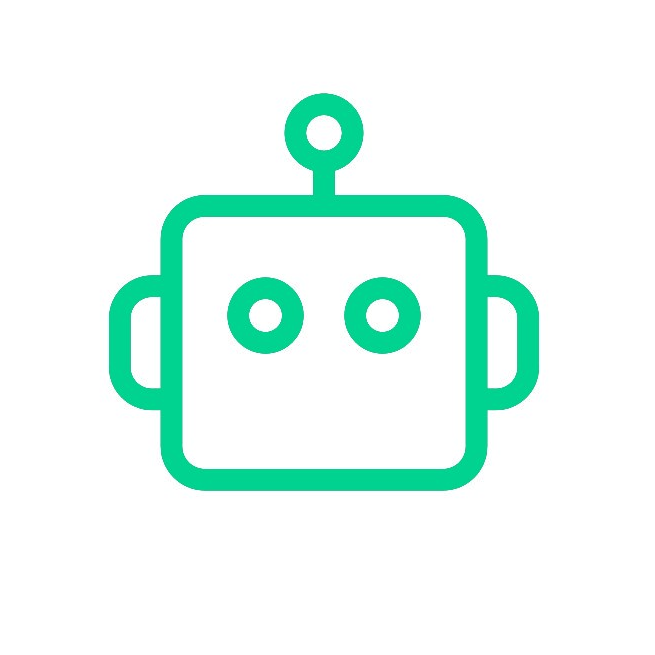
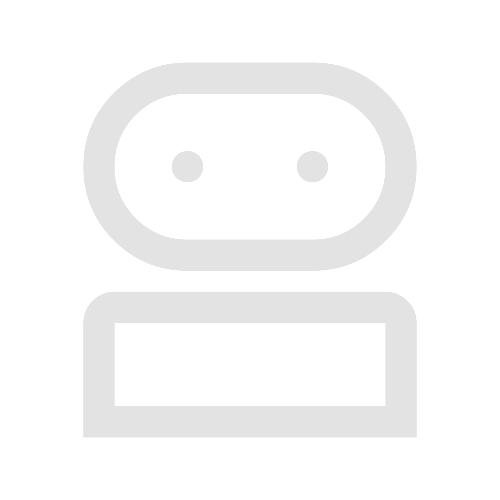
Major UI Overhaul

Changed region(s): [[0.15, 0.12, 0.84, 0.9]]

diff --git a/resources/js/chatbot.js b/resources/js/chatbot.js
@@ -80,7 +80,7 @@ const renderMessageEle = (txt, type) => {
         // JS literal
         messageEle.innerHTML =`
         <div class="chat-image avatar">
-            <div class="w-10 rounded-full ring-2 ring-base-300">
+            <div class="w-10 rounded-full">
                 <img alt="Chatbot Avatar" src="/images/chatbot.png" />
             </div>
         </div>
@@ -92,7 +92,7 @@ const renderMessageEle = (txt, type) => {
         // Html code copy pasted from the mock version
         // JS literal
         messageEle.innerHTML =`
-            <div class="chat-bubble chat-bubble-success font-semibold text-primary-content">${txt}</div>
+            <div class="chat-bubble chat-bubble-primary font-semibold text-primary-content">${txt}</div>
         `;}
 
         chatBody.append(messageEle);
@@ -132,7 +132,7 @@ const getChatbotResponse = (userInput) => {
     if (text.includes("bye") || text.includes("good bye") || text.includes("goodbye") || text.includes("stop") ) {
         return "See you later :)";
     }
-    if (text.includes("contact") || text.includes("form") || text.includes("human")|| text.includes("agent")|| text.includes("support")) {
+    if (text.includes("contact") || text.includes("form") || text.includes("human")|| text.includes("agent")|| text.includes("support")|| text.includes("customer")) {
         return "Please head over to our Help page, and use the contact form to reach our customer service team.";
     }
     if (text.includes("help") ) {

diff --git a/resources/css/app.css b/resources/css/app.css
@@ -11,18 +11,18 @@
 
     /* Daisyui Theme*/
     --daisyui-theme-mytheme: "mytheme";
-    --color-base-100: oklch(20.84% 0.008 17.911);
-    --color-base-200: oklch(18.522% 0.007 17.911);
-    --color-base-300: oklch(16.203% 0.007 17.911);
-    --color-base-content: oklch(83.768% 0.001 17.911);
+    --color-base-100: #161618;
+    --color-base-200: #27282E;
+    --color-base-300: #494A4F;
+    --color-base-content: oklch(90.7% 0.001 17.911);
     --color-primary: oklch(68.628% 0.185 148.958);
     --color-primary-content: oklch(0% 0 0);
     --color-secondary: oklch(69.776% 0.135 168.327);
     --color-secondary-content: oklch(13.955% 0.027 168.327);
     --color-accent: oklch(70.628% 0.119 185.713);
     --color-accent-content: oklch(14.125% 0.023 185.713);
-    --color-neutral: oklch(30.698% 0.039 171.364);
-    --color-neutral-content: oklch(86.139% 0.007 171.364);
+    --color-neutral: oklch(42% 0.288 171.364);
+    --color-neutral-content: oklch(96% 0.007 171.364);
     --color-info: oklch(72.06% 0.191 231.6);
     --color-info-content: oklch(0% 0 0);
     --color-success: oklch(64.8% 0.15 160);
@@ -33,12 +33,12 @@
     --color-error-content: oklch(0% 0 0);
     --radius-selector: 1rem;
     --radius-field: 2rem;
-    --radius-box: 1rem;
+    --radius-box: 2rem;
     --size-selector: 0.25rem;
     --size-field: 0.25rem;
     --border: 1px;
     --depth: 0;
-    --noise: 0;   
+    --noise: 0;  
         }
 
 

diff --git a/resources/views/customerSupport.blade.php b/resources/views/customerSupport.blade.php
@@ -14,7 +14,7 @@
 
     
     <!--Hero Section-->
-    <div class="hero bg-base-200 h-100 border border-base-300 shadow-sm mb-2">
+    <div class="hero bg-base-300 h-100 border border-base-300 shadow-sm mb-2  rounded-2xl">
     <div class="hero-content text-center">
         <div class="max-w-md">
         <h1 class="text-5xl font-bold">Hi there!</h1>
@@ -29,63 +29,74 @@
     </div>
 
     <!--Heading-->
-    <div class="bg-neutral text-neutral-content py-4 text-center text-4xl font-bold mb-2"> 
+    <div class=" text-neutral-content py-4 text-4xl font-bold mb-2"> 
         <h1>FAQS SECTION</h1>
     </div>
 
     <!--FAQs Section-->
-    <div class="border border-base-300 shadow-sm mb-2"> 
+    <div class="flex flex-col gap-2 mb-2">
         <!--FAQs Question 1-->
-        <div class="collapse bg-base-100 border border-base-300">
-            <input type="radio" name="my-accordion-1" checked="checked" />
+        <div class="collapse collapse-arrow bg-base-300 border border-base-200">
+            <input type="radio" name="my-accordion-2" checked="checked" />
             <div class="collapse-title font-semibold">How do I create an account?</div>
             <div class="collapse-content text-sm">Click on the account icon at the right-hand side of the navbar and then follow the registration process.</div>
         </div>
         <!--FAQs Question 2-->
-        <div class="collapse bg-base-100 border border-base-300">
-            <input type="radio" name="my-accordion-1" checked="checked" />
-            <div class="collapse-title font-semibold">Do you ship internationally?</div>
-            <div class="collapse-content text-sm">Unfortunately we don't ship outside the UK at the moment. However you may use third party proxy shipment to buy our products.</div>
+        <div class="collapse collapse-arrow bg-base-300  border border-base-200">
+            <input type="radio" name="my-accordion-2" />
+            <div class="collapse-title font-semibold">I forgot my password. What should I do?</div>
+            <div class="collapse-content text-sm">Click on "Forgot Password" on the login page and follow the instructions.</div>
         </div>
         <!--FAQs Question 3-->
-        <div class="collapse bg-base-100 border border-base-300">
-            <input type="radio" name="my-accordion-1" checked="checked" />
-            <div class="collapse-title font-semibold">What are your customer service opening hours?</div>
-            <div class="collapse-content text-sm">Our customer service team is available from Monday to Saturday from 9 am to 4 pm. However, you can always contact us through the email form and we will get back to you in less than three working days.</div>
+        <div class="collapse collapse-arrow bg-base-300  border border-base-200">
+            <input type="radio" name="my-accordion-2" />
+            <div class="collapse-title font-semibold">How do I update my profile information?</div>
+            <div class="collapse-content text-sm">Go to "My Account" settings and select "Edit Profile" to make changes.</div>
         </div>
         <!--FAQs Question 4-->
-        <div class="collapse bg-base-100 border border-base-300">
-            <input type="radio" name="my-accordion-1" checked="checked" />
-            <div class="collapse-title font-semibold">The item I want to buy is out of stock. When will it be restocked?</div>
-            <div class="collapse-content text-sm">We regularly restock our inventory every few months unless the item was for limited period.</div>
+        <div class="collapse collapse-arrow bg-base-300  border border-base-200">
+            <input type="radio" name="my-accordion-2" />
+            <div class="collapse-title font-semibold">How to contact the customer service?</div>
+            <div class="collapse-content text-sm">Fill out the form below and our customer service team will reach out to you soon.</div>
+        </div>
+        <!--FAQs Question 5-->
+        <div class="collapse collapse-arrow bg-base-300  border border-base-200">
+            <input type="radio" name="my-accordion-2" />
+            <div class="collapse-title font-semibold">How to track my order?</div>
+            <div class="collapse-content text-sm">To track the status of your order, please head to your account page.</div>
+        </div>
+        <!--FAQs Question 6-->
+        <div class="collapse collapse-arrow bg-base-300  border border-base-200">
+            <input type="radio" name="my-accordion-2" />
+            <div class="collapse-title font-semibold">Do you ship internationally?</div>
+            <div class="collapse-content text-sm">Unfortunately we don't ship outside the UK at the moment. However you may use third party proxy shipment to buy our products.</div>
         </div>
     </div>
 
 
     <!--Heading-->
-    <div class="bg-neutral text-neutral-content  py-4 text-center text-4xl font-bold"> 
+    <div class="text-neutral-content  py-4 text-4xl font-bold"> 
         <h1>CONTACT FORM</h1>
     </div>
 
 
     <!--Form-->
-
     <!--Input Field 1-->
     <form action="/contact-submit" method="POST" >
         @csrf <fieldset class="fieldset">
-            <legend class="fieldset-legend text-lg">Name</legend>
+            <legend class="fieldset-legend text-lg ">Name</legend>
             <input 
                 name="name"
                 type="text" 
                 required
-                class="w-full input validator" 
+                class="w-full input validator bg-base-300" 
                 placeholder="Type your name here" 
                 pattern="[A-Za-z\s]+"
                 minlength="1"
                 maxlength="30"
                 title="Only letters"   
             />
-            <p class="validator-hint hidden">Enter a valid name. Cannot contain special characters or numbers.</p>
+            <p class="validator-hint hidden text-neutral-content">Enter a valid name. Cannot contain special characters or numbers.</p>
         </fieldset>
 
         <!--Input Field 2-->
@@ -94,7 +105,7 @@
             <input 
                 name="email"
                 type="email" 
-                class="input w-full validator" 
+                class="input w-full validator bg-base-300" 
                 placeholder="Type your email here" 
                 required
             />
@@ -107,7 +118,7 @@
             <input 
                 name="mobile_number"
                 type="tel" 
-                class="input w-full validator" 
+                class="input w-full validator bg-base-300" 
                 placeholder="Type your mobile number here" 
                 pattern="[0-9]*"
                 minlength="11"
@@ -124,7 +135,7 @@
             <input 
                 name="order_number"
                 type="text" 
-                class="input w-full validator" 
+                class="input w-full validator bg-base-300" 
                 placeholder="Type your order number here" 
                 required
                 pattern="[0-9]*"
@@ -140,7 +151,7 @@
             <legend class="fieldset-legend text-lg">Message</legend>
             <textarea 
                 name="message"
-                class="textarea w-full h-20 validator" 
+                class="textarea w-full h-20 validator bg-base-300" 
                 placeholder="Type your message here" 
                 required></textarea>
         </fieldset>

diff --git a/resources/views/Components/layout.blade.php b/resources/views/Components/layout.blade.php
@@ -20,9 +20,9 @@
 
 </head>
 
-<body>
+<body class="bg-base-200">
     <!--Navbar-->
-    <header class="bg-neutral text-neutral-content py-4">
+    <header class="bg-base-100 text-neutral-content py-4">
         <div class="container mx-auto">
             <div class="flex justify-between">
                 <!--nav items on the left-->
@@ -31,7 +31,7 @@
                     <div class="">
                         <a class="btn btn-ghost text-lg" href="/">
                             <!--<img src="{{ asset('images/logo2.png') }}" alt="Logo" class="h-8 w-auto" />-->
-                            <span>LITTLE GREEN MEN</span>
+                            <span>LOGO</span>
                         </a>
                     </div>
                     <!--search box-->
@@ -86,10 +86,10 @@
 
 
     <!--Chat Window-->
-    <div id="chatWindow" class="hidden">
-    <div class="card w-96 bg-base-100 shadow-sm fixed bottom-5 right-25 rounded-2xl overflow-hidden border border-base-300">
+    <div id="chatWindow" class="hidden ">
+    <div class="card w-96 bg-base-200 shadow-md fixed bottom-5 right-25 rounded-2xl overflow-hidden border border-base-100">
         <!--Chat Header-->
-        <div class="navbar bg-neutral justify-between rounded-t">
+        <div class="navbar bg-base-100 justify-between rounded-t">
         <div class="flex justify-between gap-5 items-center mx-4">
             <!--Chatbot Avatar-->
             <div class="chat-image avatar">
@@ -104,11 +104,11 @@
             <div class="flex items-center">
                 <!--Close Button-->
                 <div id="innerCloseChatButton" class="card-actions">
-                    <img alt="Mimisise Icon" src="{{ asset('images/minimise.png') }}" class="  hover:bg-neutral-content/20 rounded-sm" />
+                    <img alt="Mimisise Icon" src="{{ asset('images/minimise.png') }}" class="  hover:bg-primary/40 rounded-sm" />
                 </div> 
                 <!--Close Button-->
-                <div id="innerMinimiseChatButton" class="card-actions mx-4">
-                    <span class="material-symbols-outlined text-neutral-content hover:bg-neutral-content/20 rounded-sm">close</span>
+                <div id="innerMinimiseChatButton" class="card-actions mx-4 ">
+                    <img alt="Close Icon" src="{{ asset('images/close.png') }}" class="  hover:bg-primary/40 rounded-sm" />
                 </div>
             </div>      
         </div>
@@ -131,12 +131,12 @@
         </div>
         
         <!--Chatbot Footer-->
-        <div class="p-2 join">
+        <div class="p-2 join ">
             <!--Text Area-->
-            <input autocomplete="off" type="text" id="txtInput" class="input join-item w-full font-semibold" placeholder="Type your message here" />
+            <input autocomplete="off" type="text" id="txtInput" class="input join-item w-full font-semibold bg-base-300 border-base-100" placeholder="Type your message here" />
             <!--Send Button-->
             <div>
-                <button id="send" class="btn btn-square btn-md join-item">
+                <button id="send" class="btn btn-square btn-md join-item bg-base-300 border-base-100">
                     <span class="material-symbols-outlined">send</span>
                 </button>
             </div>
@@ -146,7 +146,7 @@
 
     <!--Chat Button-->
     <div class="fixed bottom-5 right-10">
-        <label class="btn btn-circle btn-lg swap swap-rotate">
+        <label class="btn btn-circle btn-lg swap swap-rotate bg-base-300 border-base-100">
             <!-- this hidden checkbox controls the state -->
             <input id="chatButton" type="checkbox"/>
             <!-- Open icon -->
@@ -164,7 +164,7 @@
 
 
 <!--footer -->
-<footer class="bg-neutral text-neutral-content py-4 mt-4 border-t border-base-300">
+<footer class="bg-base-100 text-neutral-content py-4 mt-4 ">
     <div class="container flex mx-auto items-center justify-between">
         <p>Copyright&copy; 2025 Little Green Men. All rights reserved.</p>
 

diff --git a/resources/views/index.blade.php b/resources/views/index.blade.php
@@ -7,7 +7,7 @@
     </x-slot:title>
 
     <!--Carousel-->
-    <div class="carousel w-full border border-base-300 shadow-sm mb-10 rounded-2xl">
+    <div class="carousel w-full border border-base-300 shadow-sm mb-5 rounded-2xl">
     <div id="slide1" class="carousel-item relative w-full">
         <a href="/shop"> <img src="{{ asset('images/slide1.png') }}" class="w-full block" /></a>
         <div class="absolute left-5 right-5 top-1/2 flex -translate-y-1/2 transform justify-between">
@@ -38,8 +38,8 @@
     </div>
     </div>
 
-    <!--latest release section-->
-    <div class="bg-neutral text-neutral-content py-4 text-center text-4xl font-bold mb-10"> 
+    <!--Heading-->
+    <div class="text-neutral-content py-4 text-4xl font-bold mb-2"> 
         <h1>LATEST DROPS</h1>
     </div>
     
@@ -51,7 +51,7 @@
             <figure>
                 <a href="/shop"> <img src="{{ asset('images/grid1.png') }}" alt="product" /> </a>
             </figure>
-            <div class="bg-neutral card-body items-center py-2 rounded-b-sm text-neutral-content">
+            <div class="bg-base-300 card-body items-center py-2 rounded-b-sm text-neutral-content">
                 <p class="font-bold text-lg">MATRIX TEE</p>
             </div>
         </div>
@@ -61,7 +61,7 @@
             <figure>
                 <a href="/shop"> <img src="{{ asset('images/grid2.png') }}" alt="product" /> </a>
             </figure>
-            <div class="bg-neutral card-body items-center py-2 rounded-b-sm text-neutral-content">
+            <div class="bg-base-300 card-body items-center py-2 rounded-b-sm text-neutral-content">
                 <p class="font-bold text-lg">BATTLE TEE</p>
             </div>
         </div>
@@ -71,7 +71,7 @@
             <figure>
                 <a href="/shop"> <img src="{{ asset('images/grid3.png') }}" alt="product" /> </a>
             </figure>
-            <div class="bg-neutral card-body items-center py-2 rounded-b-sm text-neutral-content">
+            <div class="bg-base-300 card-body items-center py-2 rounded-b-sm text-neutral-content">
                 <p class="font-bold text-lg">BATTLE TEE</p>
             </div>
         </div>

diff --git a/resources/views/aboutUs.blade.php b/resources/views/aboutUs.blade.php
@@ -1,9 +1,3 @@
-{{-- 
-    NOTE:
-    You do not need to write any of the standard HTML code.
-    It is already written in the views/components/layout.blade.php file.
-    Just simply write your page content inside the <x-layout> tags.
---}}
 
 <x-layout>
 
@@ -13,7 +7,7 @@
     </x-slot:title>
 
     <!--Hero Section-->
-    <div class="hero bg-base-200 h-100 border border-base-300 shadow-sm mb-2">
+    <div class="hero bg-base-300 h-100 border border-base-300 shadow-sm mb-2 rounded-2xl">
     <div class="hero-content text-center">
         <div class="max-w-md">
         <h1 class="text-5xl font-bold">About Us!</h1>
@@ -27,13 +21,13 @@
     </div>
     </div>
 
-    <!--Section Heading-->
-    <div class="bg-neutral text-neutral-content py-4 text-center text-4xl font-bold mb-2"> 
-        <h1>LITTLE GREEN MAN</h1>
+    <!--Heading-->
+    <div class=" text-neutral-content py-4 text-4xl font-bold mb-2"> 
+        <h1>WHO WE ARE!</h1>
     </div>
 
     <!--TextArea-->
-    <div class="bg-base-200 border border-base-300 shadow-sm px-10 py-10">
+    <div class="bg-base-300 border border-base-300 shadow-sm px-10 py-10 rounded-2xl mb-2">
         <p class=" text-lg">
         Little Green Man! is a independent merchandise company based in Birmingham run managed by group of friends. We got started in 2025 with one goal in mind to sell kind of merchandise we want to own. Our merchandise are designed in house by our talented team of designers, mostly inspired by video games and anime. We sell tees, hoodies, sweatpants, trousers, and plenty more accessories.
         </p>
